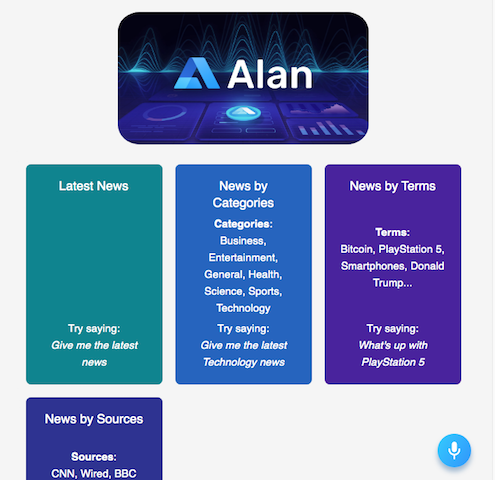
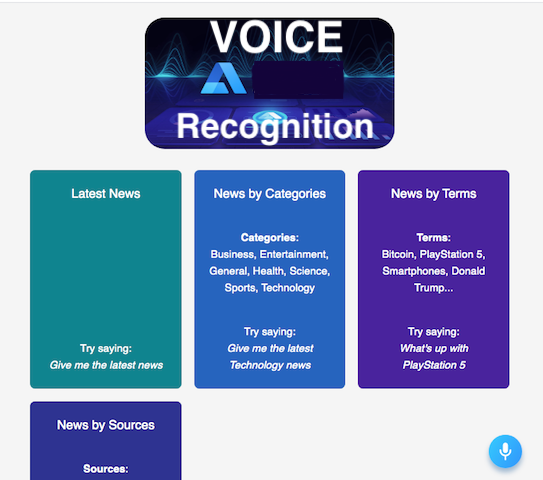
first commit

diff --git a/src/App.css b/src/App.css
@@ -765,6 +765,7 @@ Projects
 .projects {
   -ms-overflow-style: none; /* IE and Edge */
   scrollbar-width: none; /* Firefox */
+  position: relative;
 }
 
 .projects-text {
@@ -810,7 +811,7 @@ Projects
 .project-info h5 {
   text-transform: uppercase;
   color: var(--clr-white);
-  margin-top: 10rem;
+  margin-top: 7rem;
   font-size: 0.6rem;
 }
 .project a {
@@ -841,8 +842,15 @@ Projects
   /* -o-object-fit: cover; */
   -o-object-fit: fill;
   object-fit: fill;
-  height: 300px;
-  width: 300px;
+  height: 230px;
+  width: 250px;
+}
+
+@media only screen and (min-width: 451px) and (max-width: 749px) {
+  .project-img {
+    height: 320px;
+    width: 300px;
+  }
 }
 
 @media only screen and (min-width: 200px) and (max-width: 450px) {
@@ -903,24 +911,20 @@ Projects
 }
 @media screen and (min-width: 750px) {
   .projects-center {
-    display: -webkit-box;
-    display: -ms-flexbox;
-    display: flex;
-    -ms-flex-wrap: wrap;
-    flex-wrap: wrap;
-    -webkit-box-pack: center;
-    -ms-flex-pack: center;
-    justify-content: center;
-    grid-template-columns: repeat(auto-fit, minmax(300px, 1fr));
+    display: -ms-grid;
+    display: grid;
+    justify-items: center;
+    -webkit-box-align: center;
+    -ms-flex-align: center;
+    align-items: center;
+    grid-gap: 1rem;
+    /* grid-template-columns: repeat(auto-fit, minmax(200px, 1fr)); */
     grid-template-columns: 1fr 1fr;
-    /* -webkit-column-gap: 2rem;
-    -moz-column-gap: 2rem; */
-    /* margin: auto; */
-    /* display: grid; */
     padding: 0.6rem;
     overflow-y: auto;
   }
-  @supports (display: grid) {
+
+  /* @supports (display: grid) {
     .projects-center {
       display: -ms-grid;
       display: grid;
@@ -929,11 +933,15 @@ Projects
       -ms-flex-align: center;
       align-items: center;
       grid-gap: 1rem;
+      
+       grid-template-columns: 1fr 1fr;
+    padding: 0.6rem;
+    overflow-y: auto;
     }
-  }
+  } */
   .project {
     position: relative;
-    margin: 0.3rem;
+    /* margin: 0.3rem; */
   }
 }
 
@@ -944,7 +952,7 @@ Projects
     scrollbar-width: none; /* Firefox */
   }
   .projects-center {
-    grid-template-columns: repeat(1fr, auto);
+    /* grid-template-columns: repeat(1fr, auto); */
   }
 }
 
@@ -965,63 +973,13 @@ Skills
     margin: auto;
   }
 }
-@import url("./components/Skills.css")
-  /* .skill {
-  margin-bottom: 1.25rem;
-}
-.skill p {
-  margin-bottom: 0.5rem;
-  text-transform: capitalize;
-}
-.skill-container {
-  background: var(--clr-white);
-  height: 1rem;
-  width: 100%;
-  border-radius: var(--radius);
-  position: relative;
-  background: gray;
-}
-.skill-value {
-  position: absolute;
-  top: 0;
-  left: 0;
-  background: var(--clr-primary-5);
-  height: 100%;
-  width: 87%;
-  border-radius: var(--radius);
-}
-.value-70 {
-  width: 70%;
-}
-.value-80 {
-  width: 75%;
-}
-.skill-text {
-  position: absolute;
-  top: -2rem;
-  left: 80%;
-  -webkit-transform: translateX(-50%);
-  -ms-transform: translateX(-50%);
-  transform: translateX(-50%);
-}
-.skill-text-70 {
-  left: 70%;
-}
-.skill-text-80 {
-  left: 65%;
-} */
-  /*
-=============== 
-Timeline
-===============
-*/
-  /* ---------------------blog------------ */
-  /*
-=============== 
-Footer
-===============
-*/ .footer {
-  /* padding: 1rem 0; */
+
+@import url("./components/Skills.css");
+
+/* ------------------footer-------------- */
+
+.footer {
+  padding: 1rem 0;
   background: #222;
   display: -webkit-box;
   display: -ms-flexbox;
@@ -1035,6 +993,7 @@ Footer
   justify-content: center;
   /* place-items: center; */
 }
+
 @supports (display: grid) {
   .footer {
     /* display: grid; */
@@ -1054,11 +1013,6 @@ Footer
   font-size: 1rem;
   text-transform: capitalize;
 }
-/*
-=============== 
-Single Page
-===============
-*/
 
 .ticker {
   font-size: 1rem;
@@ -1068,11 +1022,6 @@ Single Page
   color: rgb(86, 98, 117);
 }
 
-/* @media only screen and (min-width: 200px) and (max-width: 749px) {
-  .ticker {
-    display: none;
-  }
-} */
 .ticker {
   overflow: hidden;
   white-space: nowrap;
@@ -1101,7 +1050,6 @@ Single Page
   white-space: nowrap;
   color: white;
   display: inline;
-  /* padding-right: 4rem; */
 }
 .px-05 {
   padding-left: 2px !important;
@@ -1204,17 +1152,14 @@ code {
   width: 2.5rem;
   /* max-width: 60vw; */
   margin: 0 auto;
-  padding-bottom: 1rem;
+  padding-bottom: 0rem;
   display: flex;
   place-items: center;
+  position: absolute;
+  /* top: 50%; */
+  left: 39%;
+  bottom: -0.7rem;
 }
-
-/* .pagination-buttons {
-  display: flex;
-  justify-content: center;
-  flex-wrap: wrap;
-  align-items: center;
-} */
 
 .page-btn,
 .prev-page-btn,
@@ -1224,7 +1169,7 @@ code {
   cursor: pointer;
   background: transparent;
   transition: var(--transition);
-  font-size: 1.2rem;
+  font-size: 0.9rem;
   color: var(--clr-primary-5);
   border: none;
 }
@@ -1240,11 +1185,10 @@ code {
 .next-page-btn {
   border: none;
   color: var(--clr-primary-5);
-  font-size: 1.5rem;
+  font-size: 1.4rem;
   display: flex;
   align-items: center;
   transition: var(--transition);
-  /* width: 4rem; */
 }
 .prev-page-btn:hover,
 .next-page-btn:hover {

diff --git a/src/components/ProjectsItem.js b/src/components/ProjectsItem.js
@@ -1,5 +1,5 @@
-import React from 'react';
-import RedoIcon from '@material-ui/icons/Redo';
+import React from "react";
+import RedoIcon from "@material-ui/icons/Redo";
 
 function ProjectsItem({ img, title, id, language, extlink }) {
   return (

diff --git a/src/context/Data.js b/src/context/Data.js
@@ -131,7 +131,7 @@ export default [
     extlink: "https://alan-voice-reader.netlify.app",
     img: alan,
     language: "REACT/MATERIAL UI",
-    title: "news voice regonition",
+    title: "news voice recognition",
   },
   {
     id: 8,
